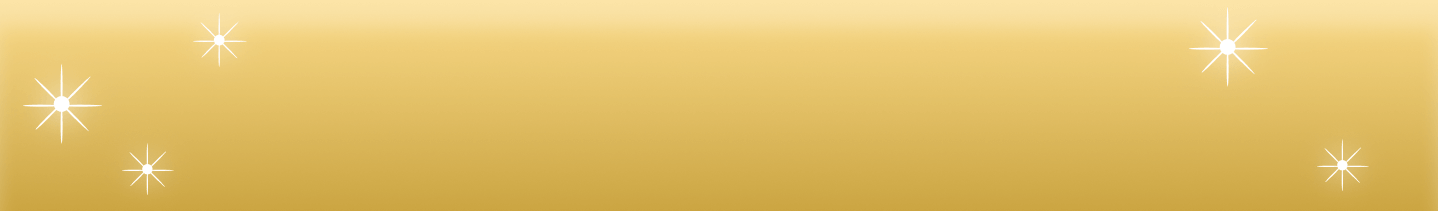
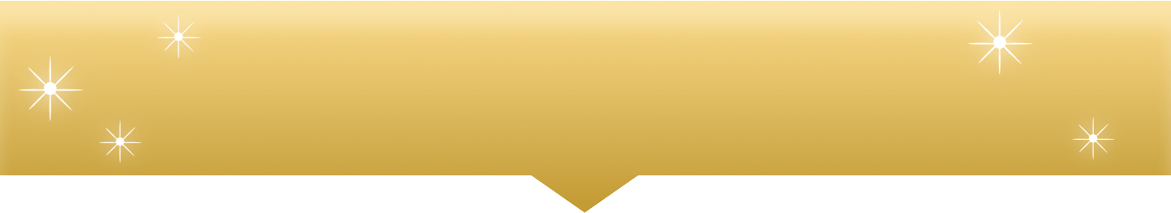
pc用の　review　の背景について

diff --git a/assets/css/style.css b/assets/css/style.css
@@ -103,6 +103,7 @@ li{
 
 @media screen and (max-width:768px){
     .slogan{
+        position: relative;
         z-index:0;
     }
 }
@@ -132,8 +133,8 @@ li{
 @media screen and (max-width: 768px) {
     .kv img{
         width: 21.36vw;
-        top: 111vw;
-        left: 4vw;
+        top: 94vw;
+        left: 9vw;
     }
 }
 .slogan-p-n{
@@ -145,7 +146,8 @@ li{
 @media screen and (max-width: 768px) {
     .slogan-p-n{
         font-size: 8.533vw;
-        padding: 0;
+        padding-left:2.133vw;
+        padding-top: 0;
         margin: 21vw 0 0 34vw;
         width: 66.133vw;
         height: 10.933vw;
@@ -181,11 +183,11 @@ li{
         font-size: 10.66vw;
         width: 33.6vw;
         height: 13.866vw;
-        padding: 0;
+        padding-left:2.133vw;
         margin: 0;
 
         position: relative;
-        top: 00px;
+        top: 0px;
         left: 130px;
     }
 }
@@ -205,10 +207,11 @@ li{
     .slogan-p-v2{
         font-size: 4.266vw;
         padding: 0;
-        top: 169.5vw;
+        top: 153.5vw;
         left: 67vw;
         width:17.066vw;
         height:auto;
+        z-index: 0;
     }
 }
 
@@ -563,7 +566,7 @@ li{
 @media screen and (max-width:768px){
     .feature{
         width: 40.533vw;
-        padding: 17.066vw 29.733vw 29.067vw  29.733vw;
+        padding: 17.066vw 29.733vw 0vw  29.733vw;
     }
 }
 
@@ -582,6 +585,12 @@ li{
     }
 }
 
+@media screen and (max-width:768px){
+    .choice-block{
+        margin-top: 34.933vw;
+    }
+}
+
 .choice-text-block{
     z-index: 20;
     width: 35.9027vw;
@@ -594,8 +603,9 @@ li{
     .choice-text-block{
         width:91.466vw;
         height: 90.66vw;
-        margin: 64vw 0 0 0;
+        margin-top: 0;
         z-index: 10;
+        margin-left: 0;
     }
 }
 
@@ -612,9 +622,11 @@ li{
     }
 }
 @media screen and (max-width:768px){
-    .choice-block:nth-of-type(2n).choice-text-b{
+    .choice-block:nth-of-type(2n) .choice-text-b{
         margin:0 0 0 auto;
+        padding: 14.933vw 5.066vw 0 0;
     }
+    
 }
 
 .choice-text-s{
@@ -641,8 +653,7 @@ li{
     .choice-block img{
         width:42.933vw;
         height: 54.66vw;
-        margin: 42.66vw 0 0 -42vw;
-        z-index: 20;
+        margin: -20vw 0 0 -42vw;
     }
 }
 
@@ -657,7 +668,8 @@ li{
     .choice-block:nth-of-type(2n){
         width:91.466vw;
         height: 90.66vw;
-        z-index: 10;
+        margin-top: 64vw;
+        margin-bottom: 64vw;
     }
 }
 
@@ -666,7 +678,7 @@ li{
 }
 @media screen and (max-width:768px){
     .choice-block:nth-of-type(2n) img{
-        margin: 42.66vw -42vw 0 0;
+        margin: -22.34vw -42vw 0 0;
     }
 }
 /*申し込む*/
@@ -880,6 +892,8 @@ li{
     width: 100%;
     height: 14.932vw;
     display: flex;
+    position: relative;
+    z-index: 0;
 }
 .happy-voice-img{
     width: 100%;
@@ -904,6 +918,12 @@ li{
     background-size: 100vw 100%;
     overflow: hidden;
     background-repeat: no-repeat;
+    position: relative;
+    z-index: -1;
+    top: -3vw;
+    left: 0;
+    overflow: hidden;
+    margin: 0;
 }
 
 .white-block-review{
@@ -928,8 +948,9 @@ li{
     width: 19.2708vw;
     height: auto;
     position: absolute;
-    top: 506vw;
+    top: 36vw;
     left: 16vw;
+    z-index: 30;
 }
 
 .initial-p{
@@ -937,8 +958,9 @@ li{
     font-size: 1.66vw;
     color: #FFFF;
     position: absolute;
-    top: 506.5vw;
+    top: 36.8vw;
     left: 18.5vw;
+    z-index: 40;
 }
 @media screen and (max-width:768px){
     .initial-img{
@@ -954,8 +976,9 @@ li{
     width: 19.2708vw;
     height: auto;
     position: absolute;
-    top: 577vw;
+    top: 107vw;
     left: 16vw;
+    z-index: 30;
 }
 
 .initial-p2{
@@ -963,8 +986,9 @@ li{
     font-size: 1.66vw;
     color: #FFFF;
     position: absolute;
-    top: 577.5vw;
+    top: 107.8vw;
     left: 18.5vw;
+    z-index: 40;
 }
 @media screen and (max-width:768px){
     .initial-img2{
